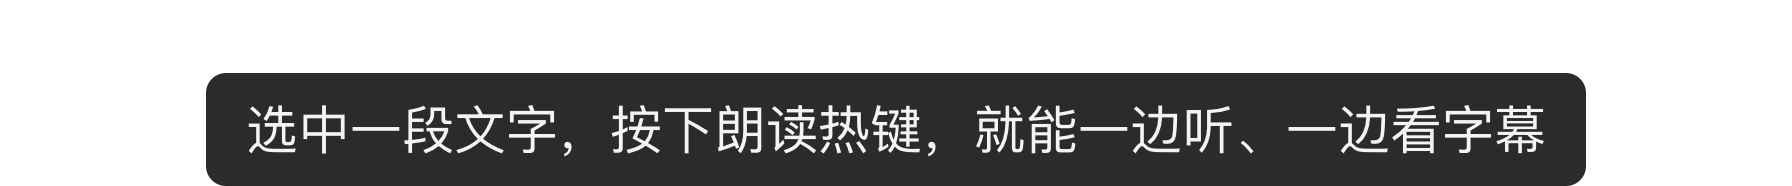
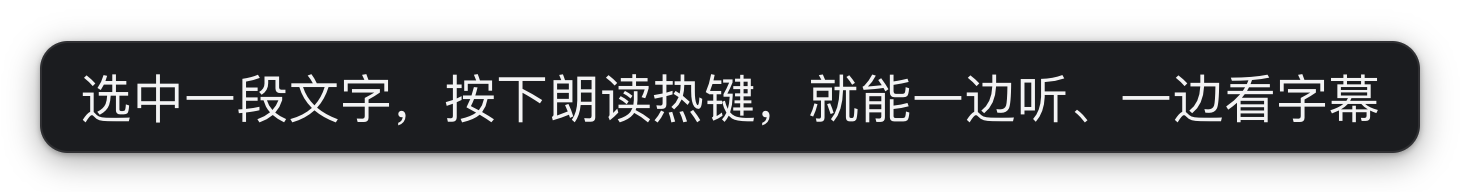
docs: recapture the HUD and caption screenshots for the new capsule
Crop both images to the capsule and its shadow. The new stream window is
half the screen wide and mostly transparent, so a full-window shot would
be mostly empty. The stream HUD shows its mini waveform at a steady level,
and its last words show grey because they are still unconfirmed. The
README widths now match each image at 1x.

diff --git a/scripts/screenshots/capture.js b/scripts/screenshots/capture.js
@@ -26,6 +26,12 @@ async (page) => {
     // shots show what a first launch shows.
     const WINDOW = { width: 900, height: 650 }
     const THEMES = [['light', ''], ['dark', '-dark']]
+    // The capsule and its shadow (HUD_SHADOW_PAD in window.rs), not the
+    // transparent window around it.
+    const capsuleClip = async () => {
+      const box = await capturePage.locator('#hudCapsule').boundingBox()
+      return { x: box.x - 20, y: box.y - 20, width: box.width + 40, height: box.height + 40 }
+    }
     // Open a main-window route in one theme and wait until it has settled.
     const openPage = async (path, lang, theme) => {
       await capturePage.setViewportSize(WINDOW)
@@ -89,9 +95,13 @@ async (page) => {
       await capturePage.locator('body:not(.hud-loading)').waitFor()
       await capturePage.locator('#textArea').filter({ hasText: 'VoiceX' }).waitFor()
       await capturePage.evaluate(() => document.fonts.ready)
-      await capturePage.waitForTimeout(400)
+      // A steady voice level, so the mini waveform shows bars.
+      for (let i = 0; i < 8; i += 1) {
+        await capturePage.evaluate(() => window.__fixtureEmit('state:audio_level', { level: 0.6 }))
+        await capturePage.waitForTimeout(50)
+      }
       if (errors.length) throw new Error(errors.join('\n'))
-      await capturePage.screenshot({ path: `assets/screenshots/${lang}/hud-window.png`, animations: 'disabled', omitBackground: true })
+      await capturePage.screenshot({ path: `assets/screenshots/${lang}/hud-window.png`, clip: await capsuleClip(), animations: 'disabled', omitBackground: true })
 
       // The drag helper floats beside System Settings in its own transparent
       // window. Match WIDTH / HEIGHT in src-tauri/src/permissions/guide.rs.
@@ -110,7 +120,7 @@ async (page) => {
       await capturePage.evaluate(() => document.fonts.ready)
       await capturePage.waitForTimeout(400)
       if (errors.length) throw new Error(errors.join('\n'))
-      await capturePage.screenshot({ path: `assets/screenshots/${lang}/reading-caption.png`, animations: 'disabled', omitBackground: true })
+      await capturePage.screenshot({ path: `assets/screenshots/${lang}/reading-caption.png`, clip: await capsuleClip(), animations: 'disabled', omitBackground: true })
     }
     console.log('Captured 34 bilingual screenshots; no browser errors.')
   } finally {

diff --git a/scripts/screenshots/README.md b/scripts/screenshots/README.md
@@ -44,12 +44,14 @@ The script writes 34 PNGs under `assets/screenshots/{zh,en}/` at 2× pixel densi
 Main-window pages are captured at the app's default 900 × 650 window size, each
 in light (`<name>.png`) and dark (`<name>-dark.png`); the READMEs use `<picture>`
 so GitHub shows the one matching the reader's theme. The stream HUD and the caption
-use the transparent window bounds the HUD code requests on a 1120 × 700 screen. The first-launch images are the Overview permission
+render in the window sizes `src-tauri/src/hud/window.rs` gives them on a 1120 × 700
+screen, and each image is cropped to the capsule and its shadow. The stream HUD's
+last words are still unconfirmed, so they show grey. The first-launch images are the Overview permission
 card (the fixture reports permissions missing) and the macOS drag helper at its
 420 × 160 window size with a transparent background; System Settings itself is
 not captured. Reading examples include the translate-and-read settings
 and a transparent caption HUD driven by synthetic `state:reading` / `state:caption`
-events. The caption viewport uses the bounds requested by the actual HUD code.
+events.
 The HUD, caption, and drag helper look the same in both themes and are captured once.
 Review every image before publishing. The images show
 frontend content without a native title bar; they do not demonstrate live ASR,
@@ -57,11 +59,11 @@ TTS, or Windows validation.
 
 脚本会在 `assets/screenshots/{zh,en}/` 写入 34 张 2 倍像素密度的 PNG。主窗口页面按应用默认的
 900 × 650 窗口尺寸截取，浅色（`<name>.png`）和深色（`<name>-dark.png`）各一张；README 用
-`<picture>` 让 GitHub 按读者的主题显示对应的一张。流式 HUD 和朗读字幕使用 HUD 代码在 1120 × 700 屏幕上请求的透明窗口尺寸。
+`<picture>` 让 GitHub 按读者的主题显示对应的一张。流式 HUD 和朗读字幕按 `src-tauri/src/hud/window.rs` 在 1120 × 700
+屏幕上给出的窗口尺寸渲染，截图裁到胶囊及其阴影。流式 HUD 最后几个字仍未确认，显示为灰色。
 首次启动的两张图分别是概览中的权限卡片（替身报告权限缺失）和 macOS 拖拽助手（420 × 160
 窗口尺寸、透明背景）；不截取系统设置本身。朗读示例包括翻译朗读设置，
-以及通过模拟 `state:reading` / `state:caption` 事件驱动的透明字幕 HUD；字幕取景尺寸
-来自实际 HUD 代码请求的窗口尺寸。HUD、字幕和拖拽助手在两种主题下外观相同，只截一张。
+以及通过模拟 `state:reading` / `state:caption` 事件驱动的透明字幕 HUD。HUD、字幕和拖拽助手在两种主题下外观相同，只截一张。
 发布前应逐张检查。
 截图仅展示前端内容，不含原生标题栏，也不代表真实 ASR、TTS 或 Windows 验证。
 

diff --git a/README.en.md b/README.en.md
@@ -10,7 +10,7 @@ English | [中文](./README.md)
 </p>
 
 <p align="center">
-  <img src="assets/screenshots/en/hud-window.png" alt="VoiceX live dictation HUD with demo text" width="256" />
+  <img src="assets/screenshots/en/hud-window.png" alt="VoiceX live dictation HUD: confirmed words in white, words that may still change in grey (demo text)" width="368" />
 </p>
 
 VoiceX is a cross-platform voice workspace for your desktop: dictate, translate, and listen in any app. Press a hotkey and speak; the recognized text (optionally corrected or translated by an LLM) is typed into the app you are using and kept in your history. In the other direction, it reads selected text aloud, optionally translating it first.
@@ -126,7 +126,7 @@ Press either reading key again, or **Escape**, to stop. You can also choose **Re
 Engines that report progress show each sentence as a large caption:
 
 <p align="center">
-  <img src="assets/screenshots/en/reading-caption.png" alt="VoiceX reading caption with the current sentence in a dark subtitle strip (demo text)" width="880" />
+  <img src="assets/screenshots/en/reading-caption.png" alt="VoiceX reading caption with the current sentence in a dark subtitle strip (demo text)" width="846" />
 </p>
 
 <p align="center">

diff --git a/README.md b/README.md
@@ -10,7 +10,7 @@
 </p>
 
 <p align="center">
-  <img src="assets/screenshots/zh/hud-window.png" alt="VoiceX 实时听写 HUD（示例文本）" width="256" />
+  <img src="assets/screenshots/zh/hud-window.png" alt="VoiceX 实时听写 HUD：已确认的文字为白色，仍可能修改的为灰色（示例文本）" width="364" />
 </p>
 
 VoiceX 是一个跨平台的桌面语音工作台，在任意应用里说、译、听：按下热键说话，识别结果（可选经大模型纠错或翻译）直接输入到当前应用，并保存到历史记录；反过来，选中的文字也可以直接读出来，或先翻译再朗读。
@@ -126,7 +126,7 @@ Windows 不需要额外授权。只有当系统关闭了麦克风权限时才会
 支持进度回报的引擎会逐句显示大字幕：
 
 <p align="center">
-  <img src="assets/screenshots/zh/reading-caption.png" alt="VoiceX 朗读字幕：当前句子显示在深色字幕条中（示例文本）" width="880" />
+  <img src="assets/screenshots/zh/reading-caption.png" alt="VoiceX 朗读字幕：当前句子显示在深色字幕条中（示例文本）" width="730" />
 </p>
 
 <p align="center">
